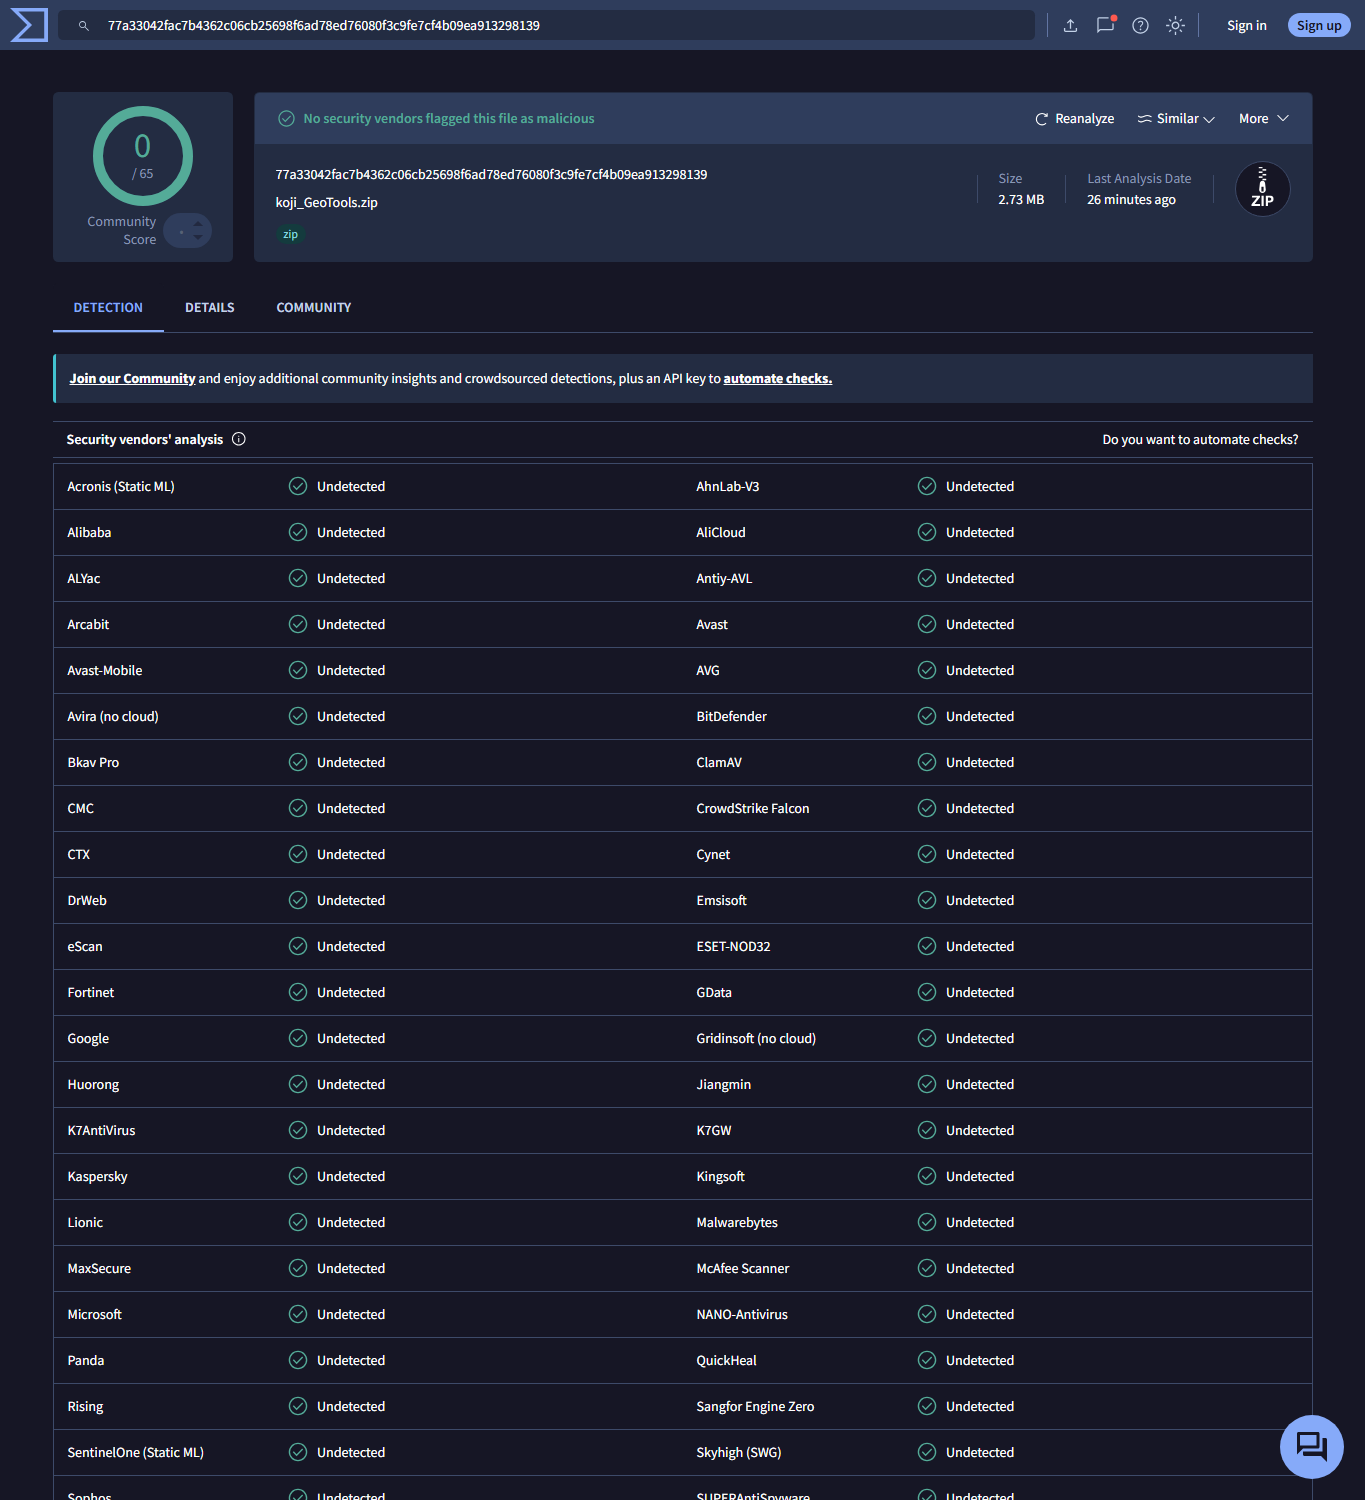
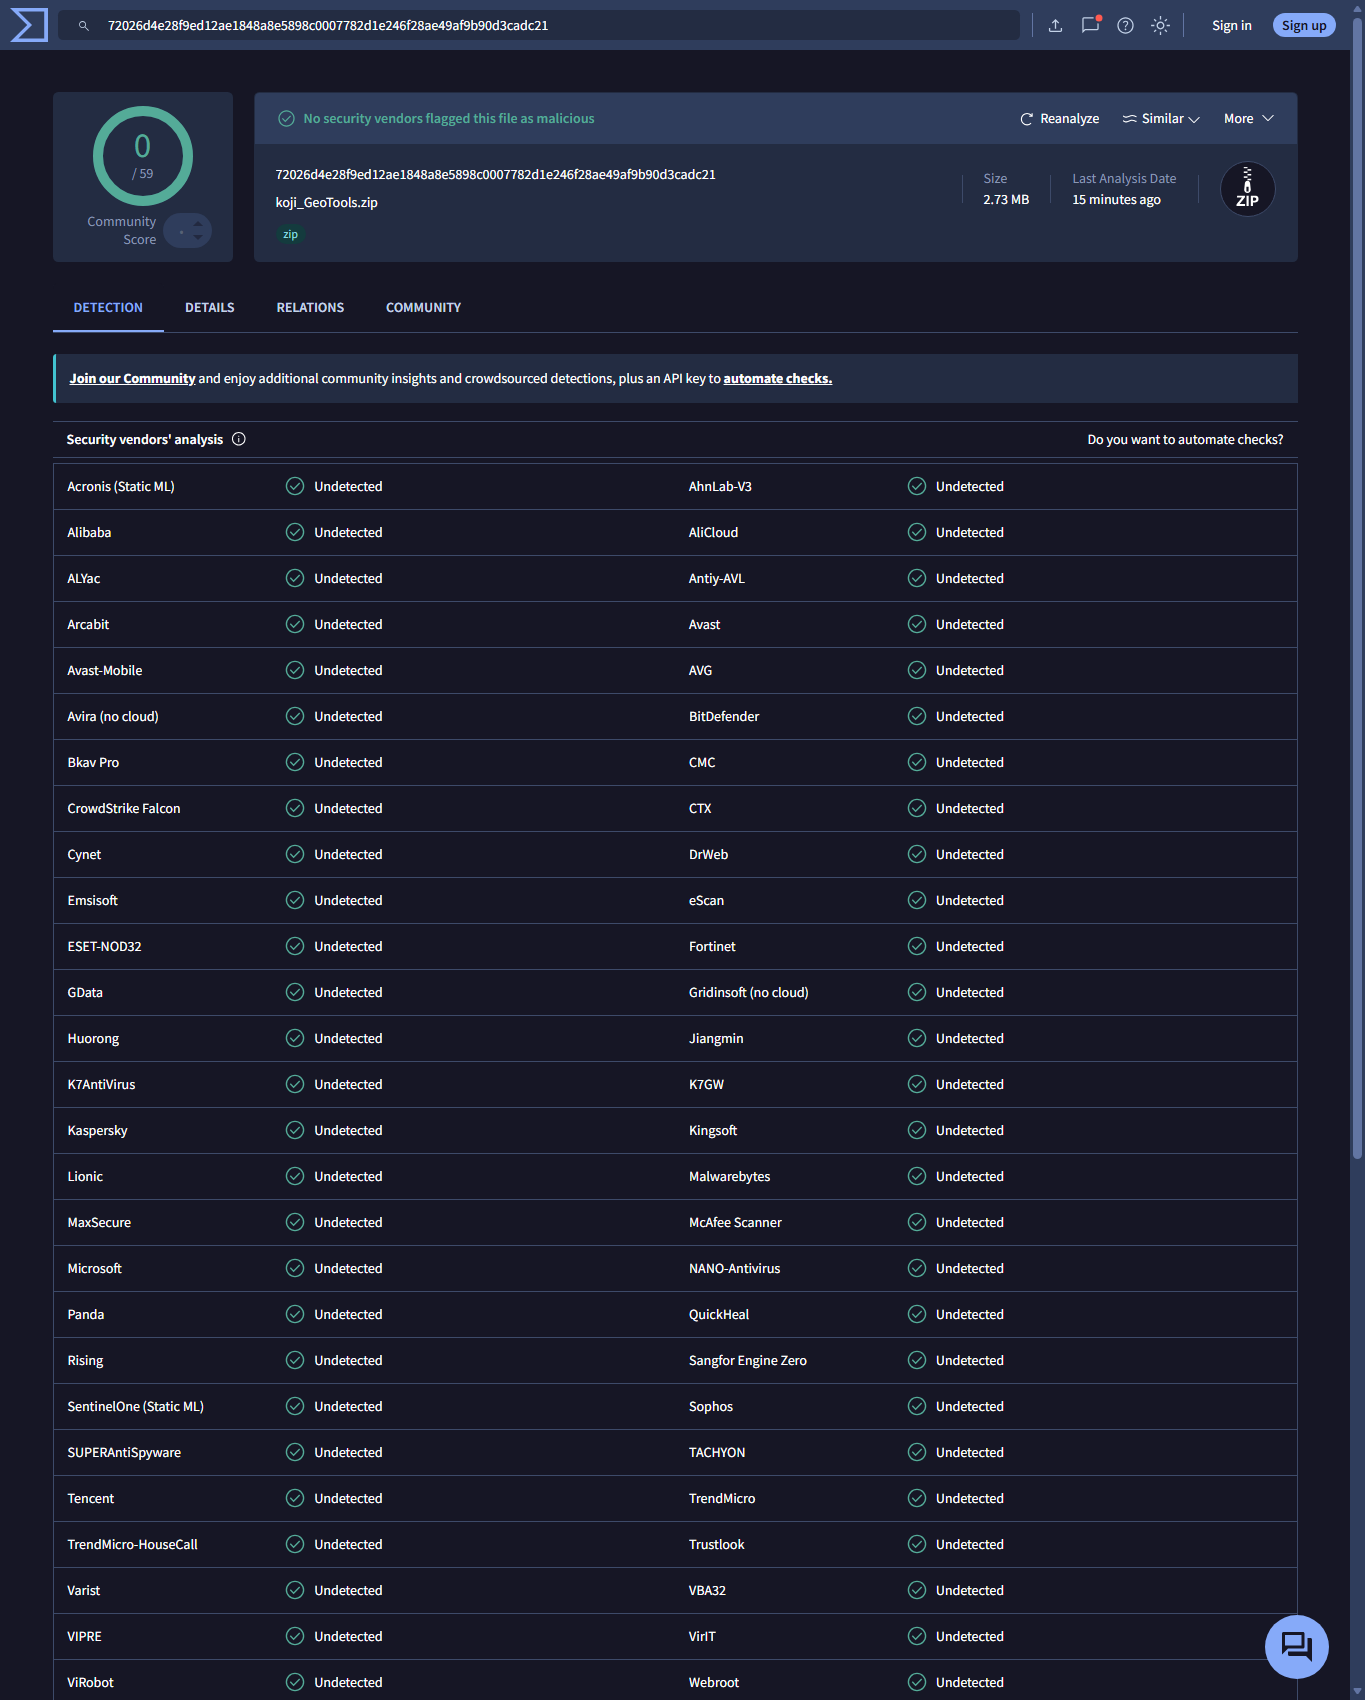
v1.0.0setting waiting for QGIS plugin permission

Changed region(s): [[0.0, 0.0, 1.0, 1.0], [0.9231, 0.7053, 0.9538, 0.736]]

diff --git a/koji_geotools-download.html b/koji_geotools-download.html
@@ -544,12 +544,12 @@
   <div class="page-hero-inner">
     <div class="eyebrow" data-ja="ダウンロード" data-en="Download">ダウンロード</div>
     <h1 data-ja="ダウンロード" data-en="Download">ダウンロード</h1>
-    <p data-ja="koji GeoTools V1.0.0 のQGISプラグインZIPと、配布ファイルを確認するための情報を掲載しています。GitHub ActionsでビルドされたReleaseアセットをそのまま利用してください。" data-en="Download the koji GeoTools V1.0.0 QGIS plugin ZIP and review information for verifying the distributed file. Use the Release asset built by GitHub Actions.">
-      koji GeoTools V1.0.0 のQGISプラグインZIPと、配布ファイルを確認するための情報を掲載しています。GitHub ActionsでビルドされたReleaseアセットをそのまま利用してください。
+    <p data-ja="koji GeoTools v1.0.0 のQGISプラグインZIPと、配布ファイルを確認するための情報を掲載しています。GitHub ActionsでビルドされたReleaseアセットをそのまま利用してください。" data-en="Download the koji GeoTools v1.0.0 QGIS plugin ZIP and review information for verifying the distributed file. Use the Release asset built by GitHub Actions.">
+      koji GeoTools v1.0.0 のQGISプラグインZIPと、配布ファイルを確認するための情報を掲載しています。GitHub ActionsでビルドされたReleaseアセットをそのまま利用してください。
     </p>
     <div class="hero-actions">
-      <a href="https://github.com/Code4Construct/koji_GeoTools/releases/download/V1.0.0/koji_GeoTools.zip" class="btn btn-primary" target="_blank" data-ja="ZIPをダウンロードする" data-en="Download ZIP">ZIPをダウンロードする</a>
-      <a href="https://github.com/Code4Construct/koji_GeoTools/releases/tag/V1.0.0" class="btn btn-secondary" target="_blank" data-ja="GitHubからダウンロードする" data-en="Download from GitHub">GitHubからダウンロードする</a>
+      <a href="https://github.com/Code4Construct/koji_GeoTools/releases/download/v1.0.0/koji_GeoTools.zip" class="btn btn-primary" target="_blank" data-ja="ZIPをダウンロードする" data-en="Download ZIP">ZIPをダウンロードする</a>
+      <a href="https://github.com/Code4Construct/koji_GeoTools/releases/tag/v1.0.0" class="btn btn-secondary" target="_blank" data-ja="GitHubからダウンロードする" data-en="Download from GitHub">GitHubからダウンロードする</a>
       <a href="koji_geotools.html" class="btn btn-secondary" data-ja="紹介ページを見る" data-en="View overview">紹介ページを見る</a>
     </div>
   </div>
@@ -562,7 +562,7 @@
       <div class="trust-layout">
         <div>
           <h2 data-ja="QGISのZIPプラグインとしてインストールできます。" data-en="Install it as a QGIS ZIP plugin.">QGISのZIPプラグインとしてインストールできます。</h2>
-          <div class="trust-subtitle" data-ja="Release V1.0.0" data-en="Release V1.0.0">Release V1.0.0</div>
+          <div class="trust-subtitle" data-ja="Release v1.0.0" data-en="Release v1.0.0">Release v1.0.0</div>
           <p data-ja="koji GeoToolsは、施設配置や調査エリア検討でよく使うベクター処理をQGISから呼び出すためのプラグインです。CSVからのレイヤセット作成、調査エリア設定、ポリゴン内の地物抽出を扱います。" data-en="koji GeoTools is a QGIS plugin for common vector workflows used in facility-placement and study-area planning. It handles layer-set creation from CSV, study-area setup, and extracting features inside polygons.">
             koji GeoToolsは、施設配置や調査エリア検討でよく使うベクター処理をQGISから呼び出すためのプラグインです。CSVからのレイヤセット作成、調査エリア設定、ポリゴン内の地物抽出を扱います。
           </p>
@@ -576,16 +576,16 @@
 
         <aside class="trust-verification">
           <h3 data-ja="配布ファイルの検証情報" data-en="Release Verification">配布ファイルの検証情報</h3>
-          <p data-ja="GitHub Release V1.0.0 のアセット情報では、配布ZIPのSHA256とVirusTotal検査結果が公開されています。VirusTotal detections は malicious=0 / suspicious=0 です。" data-en="The GitHub Release V1.0.0 asset information publishes the ZIP SHA256 and VirusTotal scan result. VirusTotal detections are malicious=0 / suspicious=0.">
-            GitHub Release V1.0.0 のアセット情報では、配布ZIPのSHA256とVirusTotal検査結果が公開されています。VirusTotal detections は malicious=0 / suspicious=0 です。
+          <p data-ja="GitHub Release v1.0.0 のアセット情報では、配布ZIPのSHA256とVirusTotal検査結果が公開されています。VirusTotalでは 0/59 ベンダー検出、malicious=0 / suspicious=0 です。" data-en="The GitHub Release v1.0.0 asset information publishes the ZIP SHA256 and VirusTotal scan result. VirusTotal shows 0/59 vendor detections, with malicious=0 / suspicious=0.">
+            GitHub Release v1.0.0 のアセット情報では、配布ZIPのSHA256とVirusTotal検査結果が公開されています。VirusTotalでは 0/59 ベンダー検出、malicious=0 / suspicious=0 です。
           </p>
-          <div class="trust-release-meta" aria-label="koji GeoTools V1.0.0 verification details">
-            <div><strong>koji GeoTools V1.0.0</strong></div>
+          <div class="trust-release-meta" aria-label="koji GeoTools v1.0.0 verification details">
+            <div><strong>koji GeoTools v1.0.0</strong></div>
             <div>ZIP: <code>koji_GeoTools.zip</code></div>
-            <div>Size: <code>2,858,967 bytes</code></div>
-            <div>Published: <code>2026-07-03 13:49:56 UTC</code></div>
-            <div>SHA256: <code>77a33042fac7b4362c06cb25698f6ad78ed76080f3c9fe7cf4b09ea913298139</code></div>
-            <div>VirusTotal: <code>malicious=0 suspicious=0</code></div>
+            <div>Size: <code>2,864,423 bytes</code></div>
+            <div>Published: <code>2026-07-04 02:21:02 UTC</code></div>
+            <div>SHA256: <code>72026d4e28f9ed12ae1848a8e5898c0007782d1e246f28ae49af9b90d3cadc21</code></div>
+            <div>VirusTotal: <code>0/59 flagged; malicious=0 suspicious=0</code></div>
           </div>
           <div class="trust-vt-window" aria-label="VirusTotal scan result screenshot">
             <img src="images/virustotal-koji_GeoTools-1.0.0.png" alt="VirusTotal scan result for koji_GeoTools.zip showing no security vendors flagged the file as malicious" loading="lazy">
@@ -604,7 +604,7 @@
             <div class="install-step">
               <div>
                 <strong data-ja="ZIPをダウンロード" data-en="Download the ZIP">ZIPをダウンロード</strong>
-                <span data-ja="GitHub Release V1.0.0 から `koji_GeoTools.zip` をダウンロードします。ZIPは展開しません。" data-en="Download koji_GeoTools.zip from GitHub Release V1.0.0. Do not unzip it.">GitHub Release V1.0.0 から `koji_GeoTools.zip` をダウンロードします。ZIPは展開しません。</span>
+                <span data-ja="GitHub Release v1.0.0 から `koji_GeoTools.zip` をダウンロードします。ZIPは展開しません。" data-en="Download koji_GeoTools.zip from GitHub Release v1.0.0. Do not unzip it.">GitHub Release v1.0.0 から `koji_GeoTools.zip` をダウンロードします。ZIPは展開しません。</span>
               </div>
             </div>
             <div class="install-step">
@@ -625,17 +625,17 @@
         <aside class="trust-card">
           <h3 data-ja="確認できること" data-en="What you can verify">確認できること</h3>
           <ul class="trust-list">
-            <li><a href="https://github.com/Code4Construct/koji_GeoTools/releases/tag/V1.0.0" target="_blank" data-ja="GitHub Releasesで配布ファイルを確認できます" data-en="Check the distributed file on GitHub Releases">GitHub Releasesで配布ファイルを確認できます</a></li>
-            <li><a href="https://github.com/Code4Construct/koji_GeoTools/releases/tag/V1.0.0" target="_blank" data-ja="SHA256でファイルの同一性を確認できます" data-en="Verify the file identity with SHA256">SHA256でファイルの同一性を確認できます</a></li>
+            <li><a href="https://github.com/Code4Construct/koji_GeoTools/releases/tag/v1.0.0" target="_blank" data-ja="GitHub Releasesで配布ファイルを確認できます" data-en="Check the distributed file on GitHub Releases">GitHub Releasesで配布ファイルを確認できます</a></li>
+            <li><a href="https://github.com/Code4Construct/koji_GeoTools/releases/tag/v1.0.0" target="_blank" data-ja="SHA256でファイルの同一性を確認できます" data-en="Verify the file identity with SHA256">SHA256でファイルの同一性を確認できます</a></li>
             <li><a href="https://github.com/Code4Construct/koji_GeoTools/actions" target="_blank" data-ja="GitHub Actionsでビルド履歴を確認できます" data-en="Review the build history in GitHub Actions">GitHub Actionsでビルド履歴を確認できます</a></li>
             <li><a href="https://github.com/Code4Construct/koji_GeoTools" target="_blank" data-ja="GitHubでソースコードを確認できます" data-en="Read the source code on GitHub">GitHubでソースコードを確認できます</a></li>
-            <li><a href="https://www.virustotal.com/gui/file/77a33042fac7b4362c06cb25698f6ad78ed76080f3c9fe7cf4b09ea913298139/detection" target="_blank" data-ja="VirusTotalで検査時点の検出状況を確認できます" data-en="Check detection status at the time of the scan on VirusTotal">VirusTotalで検査時点の検出状況を確認できます</a></li>
+            <li><a href="https://www.virustotal.com/gui/file/72026d4e28f9ed12ae1848a8e5898c0007782d1e246f28ae49af9b90d3cadc21/detection" target="_blank" data-ja="VirusTotalで検査時点の検出状況を確認できます" data-en="Check detection status at the time of the scan on VirusTotal">VirusTotalで検査時点の検出状況を確認できます</a></li>
           </ul>
-          <p class="trust-note" data-ja="このページのダウンロードボタンは、Release V1.0.0 のGitHubアセットに直接リンクしています。表示しているSHA256は、その配布ファイルを確認するための値です。" data-en="The download buttons on this page link directly to the GitHub asset for Release V1.0.0. The SHA256 shown here is the value for verifying that distributed file.">
-            このページのダウンロードボタンは、Release V1.0.0 のGitHubアセットに直接リンクしています。表示しているSHA256は、その配布ファイルを確認するための値です。
+          <p class="trust-note" data-ja="このページのダウンロードボタンは、Release v1.0.0 のGitHubアセットに直接リンクしています。表示しているSHA256は、その配布ファイルを確認するための値です。" data-en="The download buttons on this page link directly to the GitHub asset for Release v1.0.0. The SHA256 shown here is the value for verifying that distributed file.">
+            このページのダウンロードボタンは、Release v1.0.0 のGitHubアセットに直接リンクしています。表示しているSHA256は、その配布ファイルを確認するための値です。
           </p>
           <div class="trust-actions">
-            <a href="https://github.com/Code4Construct/koji_GeoTools/releases/download/V1.0.0/koji_GeoTools.zip" class="btn btn-primary" target="_blank" data-ja="ZIPをダウンロード" data-en="Download ZIP">ZIPをダウンロード</a>
+            <a href="https://github.com/Code4Construct/koji_GeoTools/releases/download/v1.0.0/koji_GeoTools.zip" class="btn btn-primary" target="_blank" data-ja="ZIPをダウンロード" data-en="Download ZIP">ZIPをダウンロード</a>
             <a href="https://github.com/Code4Construct/koji_GeoTools" class="btn btn-secondary" target="_blank" data-ja="GitHubで確認する" data-en="Check on GitHub">GitHubで確認する</a>
           </div>
         </aside>
@@ -649,7 +649,7 @@
   <div class="footer-nav">
     <a href="kojigis-homepage.html" data-ja="kojiGIS" data-en="kojiGIS">kojiGIS</a>
     <a href="index.html#developer" data-ja="開発者" data-en="Developer">開発者</a>
-    <a href="https://github.com/Code4Construct/koji_GeoTools/releases/tag/V1.0.0" target="_blank">Release</a>
+    <a href="https://github.com/Code4Construct/koji_GeoTools/releases/tag/v1.0.0" target="_blank">Release</a>
     <a href="https://github.com/Code4Construct/koji_GeoTools" target="_blank">GitHub</a>
   </div>
 </footer>
